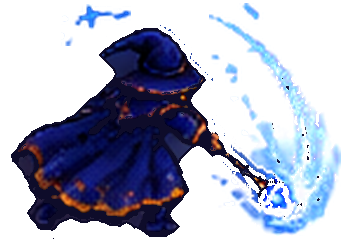
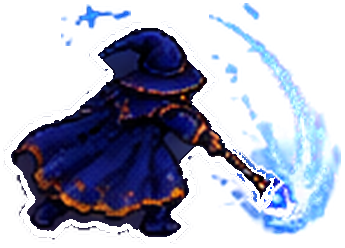
v59: recorte refeito nas poses da Maga com sobra (folha em degradê) e borda fina nova
Claude-Session: https://claude.ai/code/session_01YFC38PcyDKAfPNhJ7r1cKG

diff --git a/sw.js b/sw.js
@@ -1,4 +1,4 @@
-const CACHE='bd1-rpg-v58';
+const CACHE='bd1-rpg-v59';
 const ASSETS=['./','./index.html','./game.html','./lobby.js','./lobby.css','./select_plate.webp','./char_mage.webp','./char_knight.webp','./char_tank.webp','./char_assassin.webp','./panel_mage.webp','./panel_knight.webp','./panel_tank.webp','./panel_assassin.webp','./style.css','./app.js','./anim.js','./mage.js','./cleric.js','./clr/at1.png','./clr/at2.png','./clr/at3.png','./clr/bg1.png','./clr/bg2.png','./clr/bg3.png','./clr/bg4.png','./clr/bp1.png','./clr/bp2.png','./clr/bp3.png','./clr/br1.png','./clr/br2.png','./clr/br3.png','./clr/br4.png','./clr/br5.png','./clr/br6.png','./clr/bt1.png','./clr/bt2.png','./clr/bt3.png','./clr/bt4.png','./clr/d1.png','./clr/d2.png','./clr/d3.png','./clr/d4.png','./clr/dg1.png','./clr/dg2.png','./clr/dg3.png','./clr/dn1.png','./clr/dn2.png','./clr/dn3.png','./clr/ds1.png','./clr/ex1.png','./clr/fx_aura.png','./clr/fx_burst.png','./clr/fx_cross1.png','./clr/fx_lotus.png','./clr/fx_pillar.png','./clr/fx_pillar2.png','./clr/fx_ring1.png','./clr/fx_ring2.png','./clr/fx_ring3.png','./clr/fx_star1.png','./clr/fx_star2.png','./clr/fx_star3.png','./clr/fx_star4.png','./clr/fx_streak1.png','./clr/fx_streak2.png','./clr/fx_streak3.png','./clr/fx_sunstar.png','./clr/hat1.png','./clr/hat2.png','./clr/idle1.png','./clr/meta.json','./clr/pr1.png','./clr/pr2.png','./clr/stf.png','./clr/ult1.png','./clr/ult2.png','./clr/v1.png','./clr/v2.png','./mage3/air.png','./mage3/atk1.png','./mage3/atk2.png','./mage3/atk3.png','./mage3/bh1.png','./mage3/bh2.png','./mage3/castdef.png','./mage3/defair.png','./mage3/defearth.png','./mage3/deffire.png','./mage3/defmana.png','./mage3/defwater.png','./mage3/dodge1.png','./mage3/dodge2.png','./mage3/dodge3.png','./mage3/dodge4.png','./mage3/earth.png','./mage3/fire.png','./mage3/fx_air_swirl.png','./mage3/fx_bh_big.png','./mage3/fx_bh_big2.png','./mage3/fx_bh_small.png','./mage3/fx_bh_spikes.png','./mage3/fx_bolt.png','./mage3/fx_comet.png','./mage3/fx_cross.png','./mage3/fx_crystal.png','./mage3/fx_earth_spikes.png','./mage3/fx_fire_fall.png','./mage3/fx_mana_aura.png','./mage3/fx_orb_blue.png','./mage3/fx_orb_orange.png','./mage3/fx_orb_red.png','./mage3/fx_orbb.png','./mage3/fx_ring_floor.png','./mage3/fx_rock.png','./mage3/fx_rocks.png','./mage3/fx_star_big.png','./mage3/fx_star_small.png','./mage3/fx_water_pillar.png','./mage3/fx_whirl.png','./mage3/idle1.png','./mage3/idle2.png','./mage3/idle3.png','./mage3/idle4.png','./mage3/meta.json','./mage3/spin1.png','./mage3/spinwide.png','./mage3/stars.png','./mage3/swingf.png','./mage3/swingl.png','./mage3/swingr.png','./mage3/water.png','./anim/manifest.json','./spr_mage.webp','./spr_knight.webp','./spr_tank.webp','./spr_assassin.webp','./spr_boss.webp','./game_clean.png','./question_panel.png','./icon_attack.png','./icon_coin.png','./manifest.webmanifest','./potion_hp.png','./potion_mana.png'];
 // Tudo em cache (abre instantâneo, até offline). Em segundo plano o SW confere a rede (requisição condicional, barata);
 // se algum arquivo mudou, atualiza o cache e avisa a página, que recarrega sozinha (menu) ou mostra o aviso (jogo).

diff --git a/tools/retrace.py b/tools/retrace.py
@@ -1,0 +1,56 @@
+# Refaz o recorte do corpo da Maga a partir das poses BRUTAS (cut_white/bake_grad) e desenha uma borda fina por cima.
+# O contorno escuro original (bem escuro) delimita o personagem; tudo que fica fora dele junto ao corpo (halo azul da folha em
+# degradê, franja branca) é descartado. Efeitos brilhantes soltos (arcos, orbe) são mantidos.
+# Uso: python3 tools/retrace.py RAW_DIR OUT_DIR   (OUT_DIR = mage3 do jogo; sobrescreve só as poses listadas em POSES)
+import numpy as np, json, sys
+from PIL import Image
+from scipy import ndimage as ndi
+RAW, OUT = sys.argv[1], sys.argv[2]; P = 3; CAP = 7
+POSES = ['spin1','stars','spinwide','swingf','swingl','swingr']   # só as poses da folha em degradê têm halo; as da folha branca já saem limpas
+NAVY = np.array([14, 12, 42], np.uint8)
+raw = json.load(open(f'{RAW}/meta.json'))['poses']; M = json.load(open(f'{OUT}/meta.json'))
+S4 = ndi.generate_binary_structure(2, 1)
+for name in POSES:
+    im = np.array(Image.open(f'{RAW}/{name}.png').convert('RGBA')); im = np.pad(im, ((P, P), (P, P), (0, 0)))
+    rgb = im[..., :3].astype(int); a = im[..., 3]; mx = rgb.max(2); lum = rgb.mean(2); sat = mx - rgb.min(2)
+    solid = a >= 60
+    depth = ndi.distance_transform_edt(np.pad(a >= 60, 1) == 0, return_distances=True)  # placeholder (substituído abaixo)
+    out0 = ~(a >= 60)
+    depth = ndi.distance_transform_edt(~out0)           # profundidade a partir do vazio
+    dl = solid & (mx < 50)                              # contorno escuro original
+    cap = CAP
+    lbd, kd = ndi.label(dl)
+    bigd = np.isin(lbd, np.where(ndi.sum(dl, lbd, range(1, kd + 1)) >= 25)[0] + 1) if kd else dl
+    near_body = ndi.distance_transform_edt(~bigd) <= cap + 4      # só perto do contorno do corpo (arcos de efeito ficam intactos)
+    cand = solid & ~dl & (depth <= cap) & near_body
+    seed = cand & ndi.binary_dilation(out0, structure=S4)
+    halo0 = ndi.binary_propagation(seed, structure=S4, mask=cand)
+    # o halo é azul claro/flat (mais claro que o contorno); mantém o que for brilhante (efeito) ou dourado/laranja
+    hal = halo0 & ~((lum > 112) | (rgb[..., 0] > rgb[..., 2] + 15))
+    body = solid & ~hal
+    lb, kb = ndi.label(body)
+    if kb:
+        sz = ndi.sum(body, lb, range(1, kb + 1)); body = np.isin(lb, np.where(sz >= max(60, .02 * sz.max()))[0] + 1)
+    dist = ndi.distance_transform_edt(~body)
+    nb = (a > 0) & ~body
+    halo = hal | (nb & (dist <= 4) & (mx < 100) & ~((lum > 112)))
+    # pontinhos soltos e escuros fora do corpo
+    im[halo] = 0
+    fxb = (lum > 112) & ((rgb[..., 2] - rgb[..., 0]) > 30) & (rgb[..., 2] > 140)       # brilho azul = efeito
+    core = body & ~fxb
+    lc, kc = ndi.label(core)
+    if kc: core = lc == (np.argmax(ndi.sum(core, lc, range(1, kc + 1))) + 1)
+    core = ndi.binary_fill_holes(core)
+    nofx = ~ndi.binary_dilation(fxb & ~core, structure=S4, iterations=2)
+    im[body & (a >= 20) & core, 3] = 255
+    bd = core & ~ndi.binary_erosion(core, structure=S4)
+    need = bd & (mx >= 70) & nofx; im[need, :3] = NAVY
+    ring = ndi.binary_dilation(core, structure=S4) & ~core & (im[..., 3] < 60) & nofx
+    ring &= ndi.binary_dilation(need, structure=S4, iterations=1)
+    im[ring, :3] = NAVY; im[ring, 3] = 255
+    Image.fromarray(im).save(f'{OUT}/{name}.png')
+    r = raw[name]; m = M['poses'][name]
+    m.update({'w': r['w'] + 2 * P, 'h': r['h'] + 2 * P, 'cx': float(r['cx']) + P, 'gy': float(r['gy']) + P, 'outlined': True, 'thin': True})
+    m['orb'] = [r['orb'][0] + P, r['orb'][1] + P] if r.get('orb') else None
+json.dump(M, open(f'{OUT}/meta.json', 'w'), default=float)
+print('ok')

diff --git a/README.md b/README.md
@@ -240,3 +240,6 @@ Animações por código removidas de vez. `anim.js` toca sprite sheets desenhado
 
 ## v58
 - Maga: contorno padronizado e fino (2px) em todas as poses do corpo (tools/thin_outline.py); poses das folhas ampliadas (giros/golpes) e idle3/dodge3 estavam com contorno de 5-8px.
+
+## v59
+- Maga: recorte refeito nas 6 poses da folha em degradê (giro, estrelas, golpes laterais/frontal) com tools/retrace.py — o contorno escuro original delimita o personagem, o halo azul de sobra é descartado e efeitos (arcos, orbe) ficam intactos; borda fina refeita por cima.
